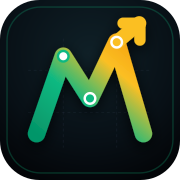
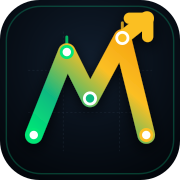
fix(prod): migrar Supabase para porta 6543, blindar AuthDAL contra erro 500 e redesenhar icone M em formato de grafico de bolsa

diff --git a/src/db/index.ts b/src/db/index.ts
@@ -177,12 +177,20 @@ declare global {
 async function createDatabaseConnection(): Promise<AppDatabase> {
   // 1. Conexão Produção / Cloud: PostgreSQL Supabase / Neon via postgres-js
   if (env.DATABASE_URL && env.DATABASE_URL.startsWith('postgres')) {
-    const client = postgres(env.DATABASE_URL, {
+    let connectionUrl = env.DATABASE_URL;
+
+    // Normalização Automática Supabase: porta 5432 (Session Mode com limite de 15 conexões)
+    // para porta 6543 (Transaction Mode - Supavisor), evitando erro fatal EMAXCONNSESSION em Serverless/Vercel
+    if (connectionUrl.includes('pooler.supabase.com:5432')) {
+      connectionUrl = connectionUrl.replace(':5432', ':6543');
+    }
+
+    const client = postgres(connectionUrl, {
       ssl: 'require',
-      prepare: false, // Compatível com Supabase Transaction Pooler (Supavisor porta 6543)
-      max: 5,
-      idle_timeout: 20,
-      connect_timeout: 15
+      prepare: false, // Obrigatório para Supabase Transaction Pooler (porta 6543)
+      max: process.env.VERCEL ? 1 : 2, // Pool enxuto por lambda para evitar contenção
+      idle_timeout: 10,
+      connect_timeout: 10
     });
     return drizzlePostgres(client, { schema });
   }

diff --git a/src/server/dal/auth-dal.ts b/src/server/dal/auth-dal.ts
@@ -133,11 +133,19 @@ export async function createServerSessionAndCookie(
  * Valida a sessão HttpOnly contra o PostgreSQL (`user_sessions` + `users`).
  * Retorna null se a sessão foi revogada, expirou ou a conta está inativa.
  */
+const UUID_V4_REGEX = /^[0-9a-f]{8}-[0-9a-f]{4}-[0-9a-f]{4}-[0-9a-f]{4}-[0-9a-f]{12}$/i;
+
 export async function getAuthorizedContextOrNull(): Promise<AuthorizedPortfolioContext | null> {
+  try {
   const cookieStore = await cookies();
   const rawToken = cookieStore.get(SESSION_COOKIE_NAME)?.value;
   const parsed = await verifySessionToken(rawToken);
   if (!parsed) return null;
+
+  // Hardening DevSecOps: validação de formato UUID para evitar SQL syntax error
+  if (!parsed.sid || typeof parsed.sid !== 'string' || !UUID_V4_REGEX.test(parsed.sid)) {
+    return null;
+  }
 
   const db = await getDb();
   const now = new Date();
@@ -204,6 +212,10 @@ export async function getAuthorizedContextOrNull(): Promise<AuthorizedPortfolioC
     portfolioOwner: actorDto,
     isAuditing: false
   };
+  } catch (err) {
+    console.error('⚠ [AuthDAL Error in getAuthorizedContextOrNull]:', err);
+    return null;
+  }
 }
 
 /**
